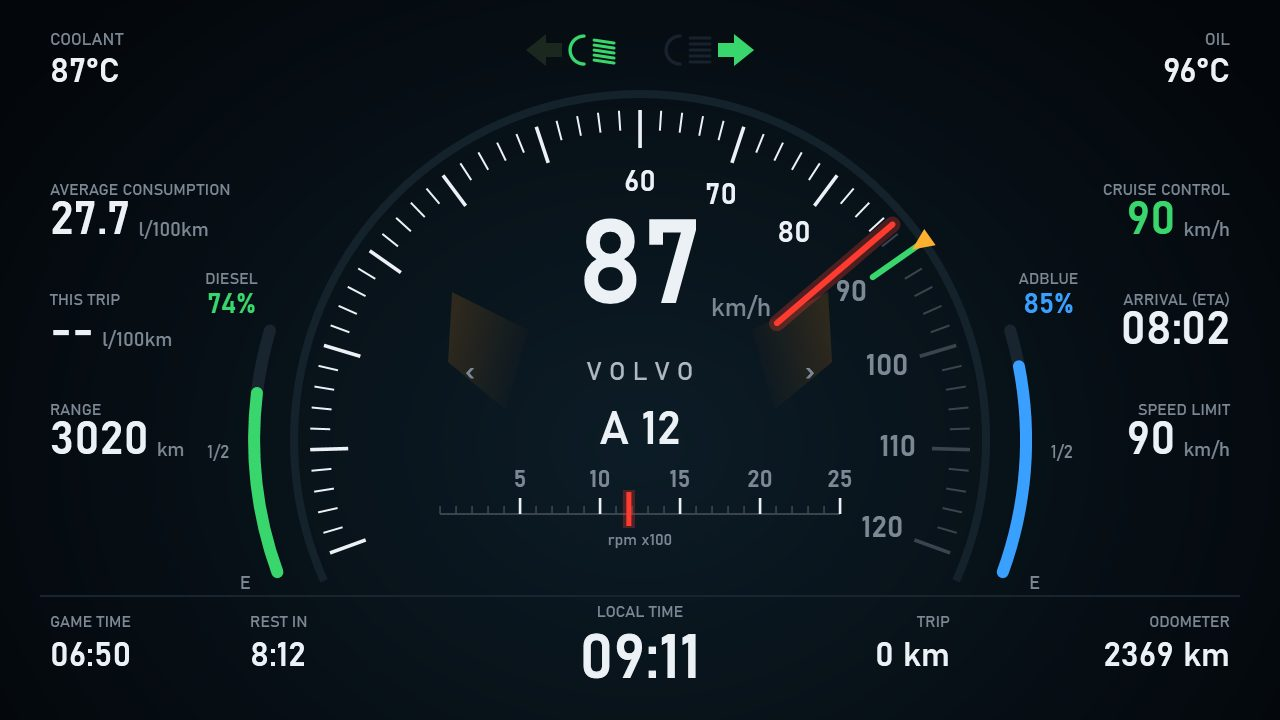
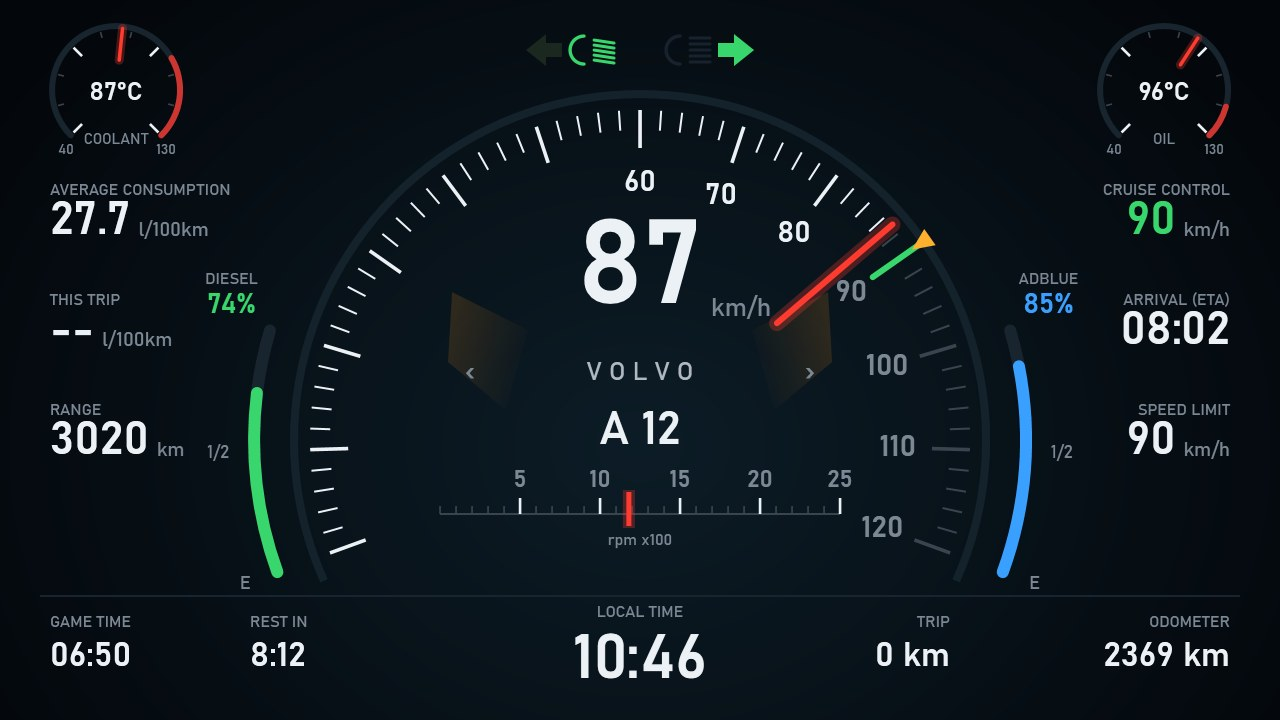
Instrument Cluster 1.6.0: links, version, screenshot and temperature gauges

Changed region(s): [[0.0312, 0.0306, 0.1562, 0.2139], [0.8438, 0.0306, 0.9688, 0.2139], [0.4375, 0.8556, 0.5625, 0.9472]]

diff --git a/index.html b/index.html
@@ -40,10 +40,10 @@
     {
       "@type": "SoftwareApplication",
       "name": "ETS2-ATS Instrument Cluster",
-      "description": "A digital instrument cluster for Euro Truck Simulator 2 and American Truck Simulator with speed, rev counter, fuel, AdBlue and trip data.",
+      "description": "A digital instrument cluster for Euro Truck Simulator 2 and American Truck Simulator with speed, rev counter, fuel, AdBlue, coolant and oil temperature gauges, and trip data.",
       "applicationCategory": "GameApplication",
       "operatingSystem": "Windows, Android",
-      "softwareVersion": "1.5.0",
+      "softwareVersion": "1.6.0",
       "downloadUrl": "https://github.com/johnevansau320/ETS2-ATS-Instrument-Cluster/releases",
       "screenshot": "https://johnevansau.com/img/cluster.jpg",
       "offers": { "@type": "Offer", "price": "0", "priceCurrency": "USD" }
@@ -149,25 +149,26 @@
       <img class="app-icon" src="img/cluster-icon.png" alt="" width="64" height="64">
       <div>
         <h3>ETS2-ATS Instrument Cluster</h3>
-        <p class="tags"><span>ETS2</span><span>ATS</span><span>Windows 1.5.0</span><span>Android 1.5.0</span></p>
+        <p class="tags"><span>ETS2</span><span>ATS</span><span>Windows 1.6.0</span><span>Android 1.6.0</span></p>
       </div>
     </div>
     <div class="app-body">
-      <figure class="shot"><img src="img/cluster.jpg" alt="The digital instrument cluster with speed, rev counter, fuel, AdBlue and trip data" width="1280" height="720" loading="lazy"></figure>
+      <figure class="shot"><img src="img/cluster.jpg" alt="The digital instrument cluster with speed, rev counter, fuel, AdBlue, round coolant and oil temperature gauges, and trip data" width="1280" height="720" loading="lazy"></figure>
       <div class="app-text">
         <p>A digital dashboard in its own window: put it on a second monitor, under the game, or on an old tablet mounted by your desk.</p>
         <ul class="ticks">
           <li>Speed, revs, gear, cruise control and the speed limit</li>
           <li>Fuel and AdBlue / DEF with warnings, range and consumption</li>
-          <li>Temperatures, trip, odometer, ETA, rest timer and both clocks</li>
+          <li>Round coolant and oil temperature gauges with red zones</li>
+          <li>Trip, odometer, ETA, rest timer and both clocks</li>
           <li>Metric or imperial, any size from small to full screen</li>
           <li>Minimize and restore by voice through the GPS app</li>
         </ul>
         <div class="dl">
-          <a class="btn btn-amber" href="https://github.com/johnevansau320/ETS2-ATS-Instrument-Cluster/releases/download/v1.5.0/Ets2ClusterSetup-1.5.0.exe">Windows setup</a>
-          <a class="btn btn-amber" href="https://github.com/johnevansau320/ETS2-ATS-Instrument-Cluster/releases/download/v1.5.0/Ets2Cluster-1.5.0.apk">Android app</a>
-          <a class="btn btn-ghost" href="https://github.com/johnevansau320/ETS2-ATS-Instrument-Cluster/releases/download/v1.5.0/Ets2Cluster-portable-1.5.0.zip">Windows portable (zip)</a>
-          <a class="btn btn-ghost" href="https://github.com/johnevansau320/ETS2-ATS-Instrument-Cluster/releases/download/v1.5.0/ETS2-Instrument-Cluster-Guide.pdf">User guide (PDF)</a>
+          <a class="btn btn-amber" href="https://github.com/johnevansau320/ETS2-ATS-Instrument-Cluster/releases/download/v1.6.0/Ets2ClusterSetup-1.6.0.exe">Windows setup</a>
+          <a class="btn btn-amber" href="https://github.com/johnevansau320/ETS2-ATS-Instrument-Cluster/releases/download/v1.6.0/Ets2Cluster-1.6.0.apk">Android app</a>
+          <a class="btn btn-ghost" href="https://github.com/johnevansau320/ETS2-ATS-Instrument-Cluster/releases/download/v1.6.0/Ets2Cluster-portable-1.6.0.zip">Windows portable (zip)</a>
+          <a class="btn btn-ghost" href="https://github.com/johnevansau320/ETS2-ATS-Instrument-Cluster/releases/download/v1.6.0/ETS2-Instrument-Cluster-Guide.pdf">User guide (PDF)</a>
         </div>
         <p class="note"><a href="https://github.com/johnevansau320/ETS2-ATS-Instrument-Cluster/releases">All releases</a></p>
       </div>
